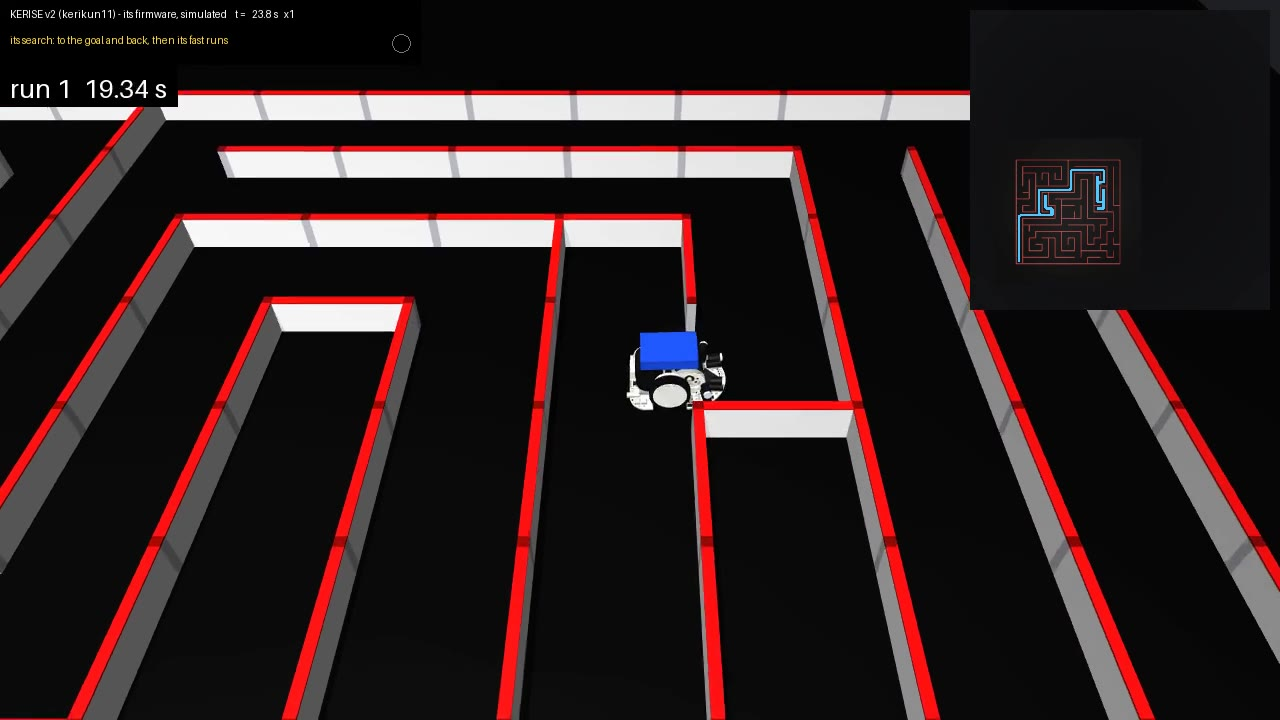
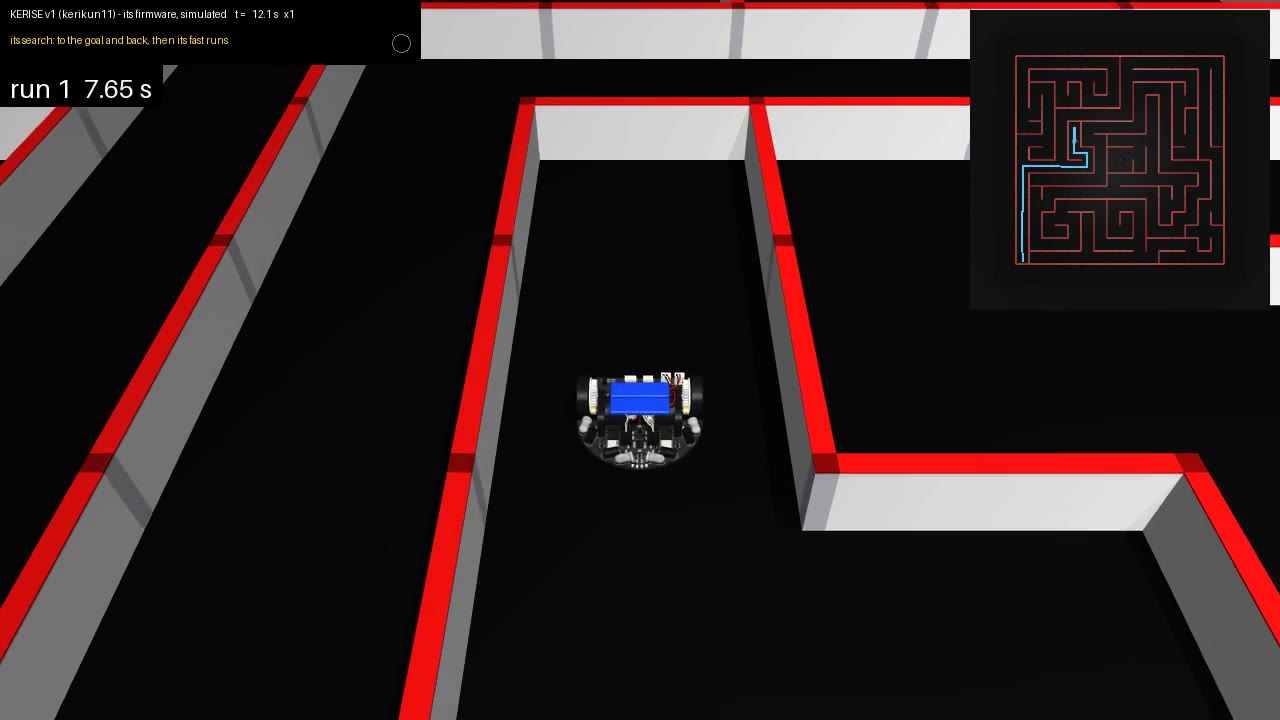
KERISE v1's portrait as close as the others' (its camera 0.155 m: the robot about 540 px across, as Bulebule, Fujin, ZoroBot3 and UKMARSBOT are; at 0.21 m it was 390) and its picture in the maze again, KERISE v1 searching the classic OSHWDEM 2026 maze (a frame of its --record), no longer v2's at hal

diff --git a/ratasim/scenes/portraits.py b/ratasim/scenes/portraits.py
@@ -27,7 +27,7 @@ ROBOTS = {      # file: prefix, camera distance (m), azimuth, elevation[, the he
     'futura': ('u_', 0.18, 215, -32),
     'ukmarsbot': ('k_', 0.22, 215, -32),
     'miniskybot': ('m_', 0.27, 215, -26, 0.03),
-    'kerise': ('e_', 0.21, 215, -30),
+    'kerise': ('e_', 0.155, 215, -30),
 }
 SHADOW_CLIP = {'kerise': 0.15}   # its shadows' map over less than the scene (m): the small ones' shadows without steps
 SKY = 'rgb1="0.17 0.18 0.21" rgb2="0.04 0.04 0.05"'          # a dark studio
